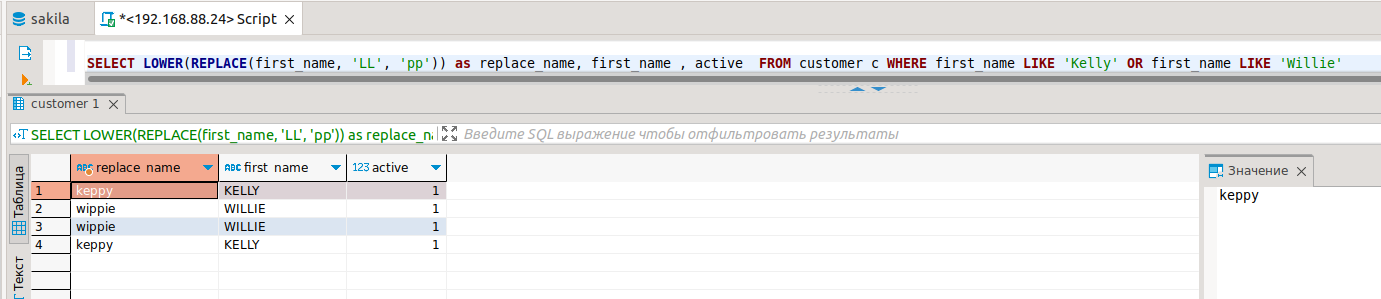
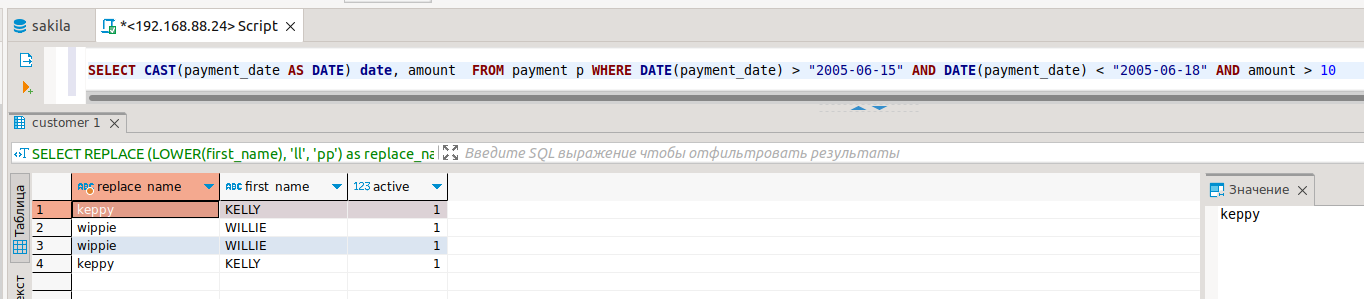
12-03 done

diff --git a/12-03.md b/12-03.md
@@ -77,7 +77,7 @@ SELECT  rental_id, rental_date  FROM rental r ORDER BY rental_date DESC LIMIT 5
 ---
 
 ```mysql
-SELECT LOWER(REPLACE(first_name, 'LL', 'pp')) as replace_name, first_name , active  FROM customer c WHERE first_name LIKE 'Kelly' OR first_name LIKE 'Willie'
+SELECT REPLACE (LOWER(first_name), 'll', 'pp') as replace_name, first_name, active FROM customer c WHERE first_name LIKE 'Kelly' OR first_name LIKE 'Willie'
 
 ```
 ![alt_text](https://github.com/ivanmalyshev/sdb-hw/blob/main/files/hw12-03/step4.png)
